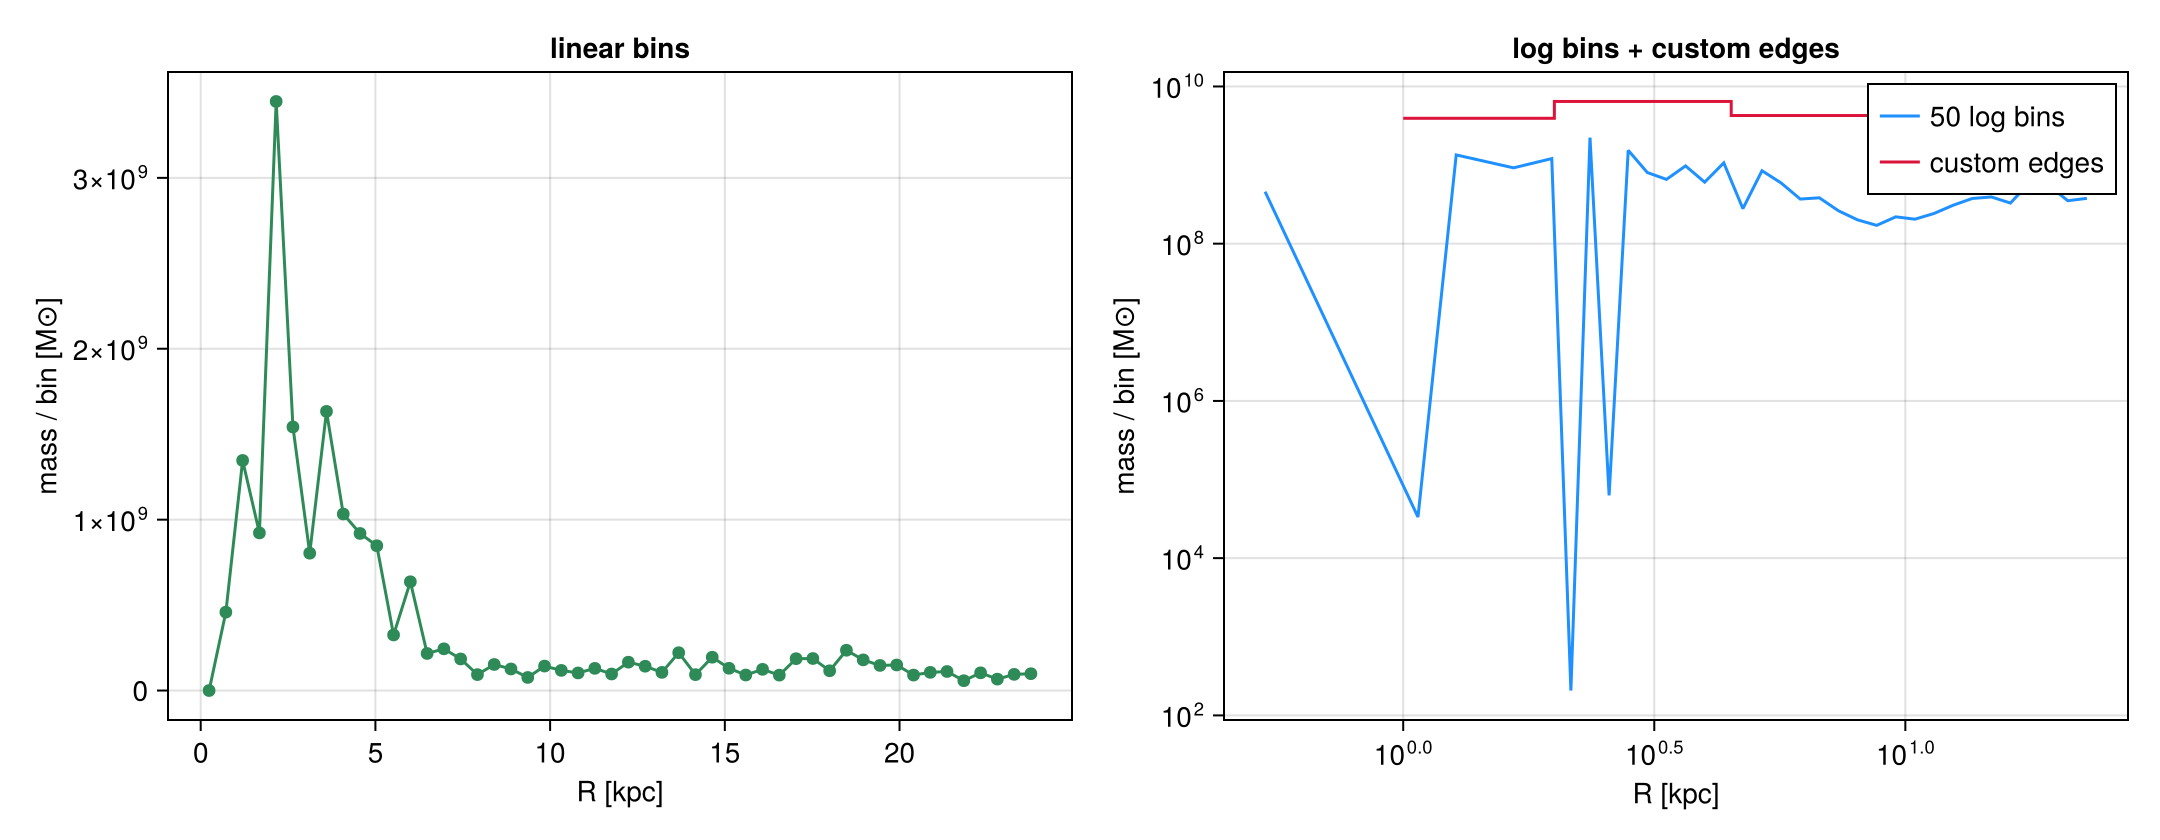
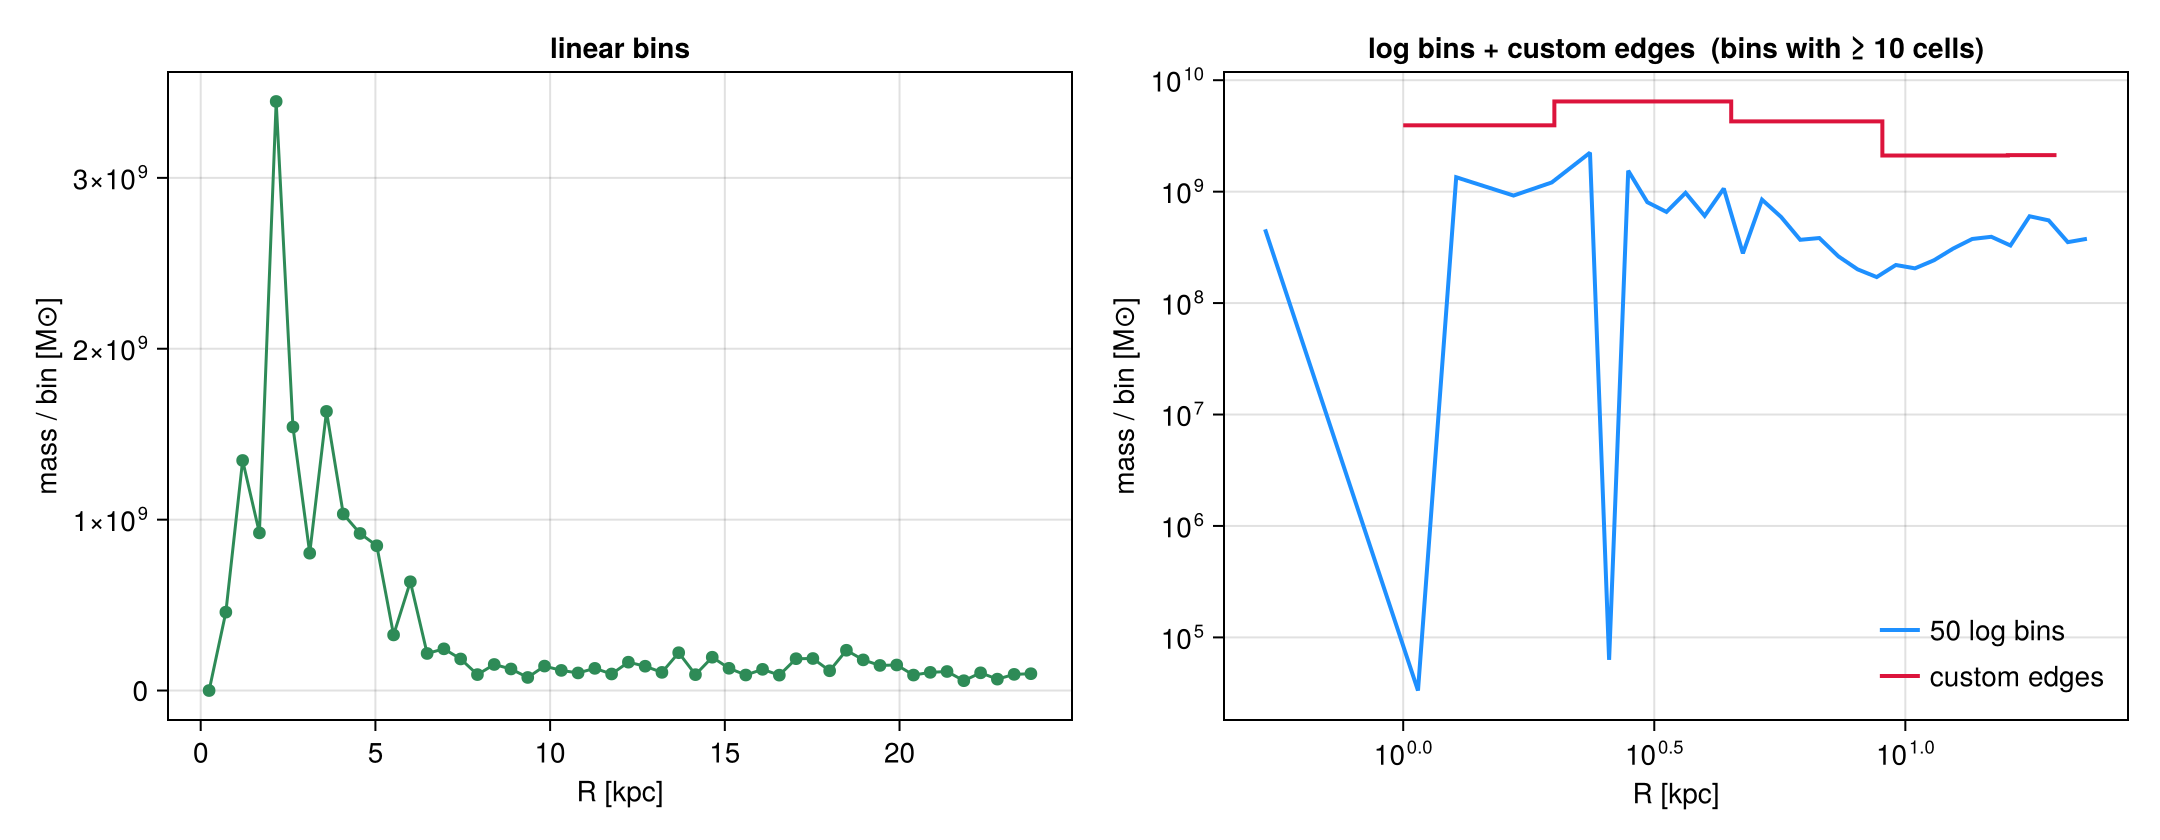
docs(profiles): make three figures show what their captions claim
All the printed numbers on this page check out. The figures were the
problem.

Section 7 drew skewness and excess kurtosis on one axis. In this galaxy
they run to -44 and 2600, so the skewness was a flat line on zero and
the strongly one-sided vertical motion in the mid-disc, the interesting
part, was invisible. One axis each now, kurtosis in log.

Section 1 plotted log bins holding a handful of cells, which on a log
axis are spikes down four decades. Bins below ten cells are dropped.

Section 3 had three panels of which two were the same curve scaled, and
a density-PDF panel plotted per linear n_H that neither looks like the
familiar log-normal nor adds to what the Statistics page already covers.
It is now two panels, density and enclosed mass with the half-mass
radius marked, and points at Statistics for PDFs.

diff --git a/docs/src/15_multi_Profiles_Phase.md b/docs/src/15_multi_Profiles_Phase.md
@@ -72,10 +72,11 @@ M(p) = p.sum .* gas.scale.Msol      # code mass -> Msol
 fig = Figure(size=(1080,420))
 ax1 = Axis(fig[1,1], xlabel="R [kpc]", ylabel="mass / bin [M⊙]", title="linear bins")
 scatterlines!(ax1, pl.x, M(pl), color=:seagreen)
-ax2 = Axis(fig[1,2], xscale=log10, yscale=log10, xlabel="R [kpc]", ylabel="mass / bin [M⊙]", title="log bins + custom edges")
-o = M(plg) .> 0
-lines!(ax2, plg.x[o], M(plg)[o], color=:dodgerblue, label="50 log bins")
-stairs!(ax2, pe.x, max.(M(pe),1), color=:crimson, step=:center, label="custom edges")
+ax2 = Axis(fig[1,2], xscale=log10, yscale=log10, xlabel="R [kpc]", ylabel="mass / bin [M⊙]", title="log bins + custom edges  (bins with ≥ 10 cells)")
+o = (M(plg) .> 0) .& (plg.count .>= 10)   # a bin holding a few cells is noise, not signal
+lines!(ax2, plg.x[o], M(plg)[o], color=:dodgerblue, linewidth=2, label="50 log bins")
+stairs!(ax2, pe.x, max.(M(pe),1), color=:crimson, step=:center, linewidth=2, label="custom edges")
+axislegend(ax2, position=:rb, framevisible=false)
 axislegend(ax2, position=:rt); fig
 ```
 
@@ -116,32 +117,38 @@ axislegend(ax, position=:rt, framevisible=false); fig
 
 ![](15_multi_Profiles_Phase_files/15_multi_Profiles_Phase_7_1.png)
 
-## 3. Density, enclosed mass & normalization (density PDF)
+## 3. Density, enclosed mass & normalization
 
 `geometry=:spherical` (shell `4/3·π·Δr³`) or `:cylindrical` (annulus `π·Δr²`) divides the binned
-weight by the shell volume to give a physical **`density`** (`weight`-unit per `xunit`³, + `shell_volume`).
-`cumulative=:forward` (or `:reverse`) adds `cumsum`/`cumcount`, the **enclosed mass** M(<r).
-`normalize=:sum` gives per-bin `fraction` (Σ=1); `normalize=:pdf` gives a true probability density
-`pdf` (∫=1). The canonical use is the **density PDF**, bin *by* density and normalize; the `weight`
-then picks the **mass-weighted** vs **volume-weighted** ρ-PDF (they differ, the near-log-normal ISM
-density distribution).
+weight by the shell volume to give a physical **`density`** (`weight`-unit per `xunit`³, +
+`shell_volume`). `cumulative=:forward` (or `:reverse`) adds `cumsum`/`cumcount`, the **enclosed
+mass** M(<r), which is where a half-mass radius comes from. `normalize=:sum` gives per-bin
+`fraction` (Σ=1); `normalize=:pdf` gives a true probability density (∫=1), so `profile` can bin
+*by* density and hand back a ρ-PDF.
+
+For PDFs specifically, [`pdf`](@ref) is the direct route and the
+[Statistics](statistics.md) page covers weighting, normalisation and the log-normal question in
+one place.
 
 ```julia
 pr = profile(gas, :r_sphere; weight=:mass, geometry=:spherical, cumulative=:forward, scale=:log,
              xrange=(0.3,24), nbins=40, center=ctr, range_unit=:kpc, xunit=:kpc)
 ρ = pr.density .* gas.scale.Msol; Menc = pr.cumsum .* gas.scale.Msol
-dm = profile(gas, :rho; weight=:mass,   normalize=:pdf, scale=:log, unit=:nH, nbins=60)   # mass-weighted ρ-PDF
-dv = profile(gas, :rho; weight=:volume, normalize=:pdf, scale=:log, unit=:nH, nbins=60)   # volume-weighted ρ-PDF
-fig = Figure(size=(1500,420))
-ax1 = Axis(fig[1,1], xscale=log10, yscale=log10, xlabel="r [kpc]", ylabel="ρ [M⊙/kpc³]", title="spherical density ρ(r)  (geometry)")
-od = ρ .> 0; scatterlines!(ax1, pr.x[od], ρ[od], color=:crimson)
-ax2 = Axis(fig[1,2], xscale=log10, xlabel="r [kpc]", ylabel="M(<r) [M⊙]", title="enclosed mass  (cumulative)")
-lines!(ax2, pr.x, Menc, color=:navy, linewidth=2.5)
-ax3 = Axis(fig[1,3], xscale=log10, yscale=log10, xlabel="n_H [cm⁻³]", ylabel="pdf [per linear n_H]", title="density PDF  (normalize=:pdf)")
-om = dm.pdf .> 0; ov = dv.pdf .> 0
-lines!(ax3, dm.x[om], dm.pdf[om], color=:crimson, linewidth=2.5, label="mass-weighted")
-lines!(ax3, dv.x[ov], dv.pdf[ov], color=:teal,    linewidth=2.5, label="volume-weighted")
-axislegend(ax3, position=:lt); fig
+frac  = Menc ./ Menc[end]
+rhalf = pr.x[findfirst(>=(0.5), frac)]          # where half the gas is enclosed
+
+fig = Figure(size=(1080,420))
+a1 = Axis(fig[1,1], xscale=log10, yscale=log10, xlabel="r [kpc]", ylabel="ρ [M⊙/kpc³]",
+          title="spherical density ρ(r)   (geometry=:spherical)")
+od = ρ .> 0; scatterlines!(a1, pr.x[od], ρ[od], color=:crimson)
+a2 = Axis(fig[1,2], xscale=log10, xlabel="r [kpc]", ylabel="M(<r) [M⊙]",
+          title="enclosed mass   (cumulative=:forward)")
+lines!(a2, pr.x, Menc, color=:navy, linewidth=2.5)
+hlines!(a2, [0.5*Menc[end]], color=:gray, linestyle=:dash)
+vlines!(a2, [rhalf], color=:gray, linestyle=:dash)
+text!(a2, rhalf*1.15, 0.52*Menc[end]; text="half the gas inside $(round(rhalf,digits=1)) kpc",
+      color=:gray, fontsize=12, align=(:left,:bottom))
+fig
 ```
 
 ![](15_multi_Profiles_Phase_files/15_multi_Profiles_Phase_9_1.png)
@@ -264,6 +271,11 @@ Three statistics upgrades, all opt-in and composable:
   (`mean_ci`/`median_ci`, `nbins×2`) plus `median_se`; `ci=:percentile` (default), `:basic` or
   `:bca` (bias-corrected & accelerated). It is deterministic (seeded), so reruns match.
 
+The three panels are separate on purpose. In this galaxy the skewness of `v_z` reaches **-44**
+while the excess kurtosis reaches **2600**: drawn on one axis the skewness is a flat line on zero,
+and the strongly one-sided vertical motion in the mid-disc, which is the interesting part, is
+invisible.
+
 ```julia
 pe = profile(gas, :r_cylinder, :vz; weight=:mass, unit=:km_s, scale=:equal, nbins=18,
              center=ctr, range_unit=:kpc, xunit=:kpc, bootstrap=800, ci=:bca, confidence_level=0.95)
@@ -271,16 +283,21 @@ println("equal-count points/bin (min..max): ", extrema(pe.count), "  → nearly 
 ok = pe.count .> 5
 x = pe.x[ok]; mu = pe.mean[ok]; lo = pe.mean_ci[ok,1]; hi = pe.mean_ci[ok,2]
 sk = pe.skewness[ok]; ku = pe.kurtosis[ok]
-fig = Figure(size=(900,420))
+
+# Skewness runs to -44 here and excess kurtosis to 2600: on one axis the skewness is a flat
+# line on zero and the panel says nothing. One axis each, and the kurtosis in log.
+fig = Figure(size=(1350,420))
 ax1 = Axis(fig[1,1], xlabel="R [kpc]", ylabel="⟨v_z⟩ [km/s]", title="equal-count bins + BCa bootstrap 95% CI")
 band!(ax1, x, lo, hi, color=(:dodgerblue,0.25), label="95% CI (bootstrap)")
 lines!(ax1, x, mu, color=:dodgerblue, linewidth=2.5, label="⟨v_z⟩")
 axislegend(ax1, position=:rt, framevisible=false)
-ax2 = Axis(fig[1,2], xlabel="R [kpc]", ylabel="shape moment", title="shape of the v_z distribution per bin")
+ax2 = Axis(fig[1,2], xlabel="R [kpc]", ylabel="skewness", title="asymmetry of v_z per bin")
 hlines!(ax2, [0.0], color=:gray, linestyle=:dash)
-lines!(ax2, x, sk, color=:crimson, linewidth=2, label="skewness")
-lines!(ax2, x, ku, color=:seagreen, linewidth=2, label="excess kurtosis")
-axislegend(ax2, position=:rt, framevisible=false); fig
+lines!(ax2, x, sk, color=:crimson, linewidth=2)
+ax3 = Axis(fig[1,3], xlabel="R [kpc]", ylabel="excess kurtosis", yscale=log10,
+           title="tail weight of v_z per bin")
+lines!(ax3, x, ku, color=:seagreen, linewidth=2)
+fig
 ```
 
 ```
